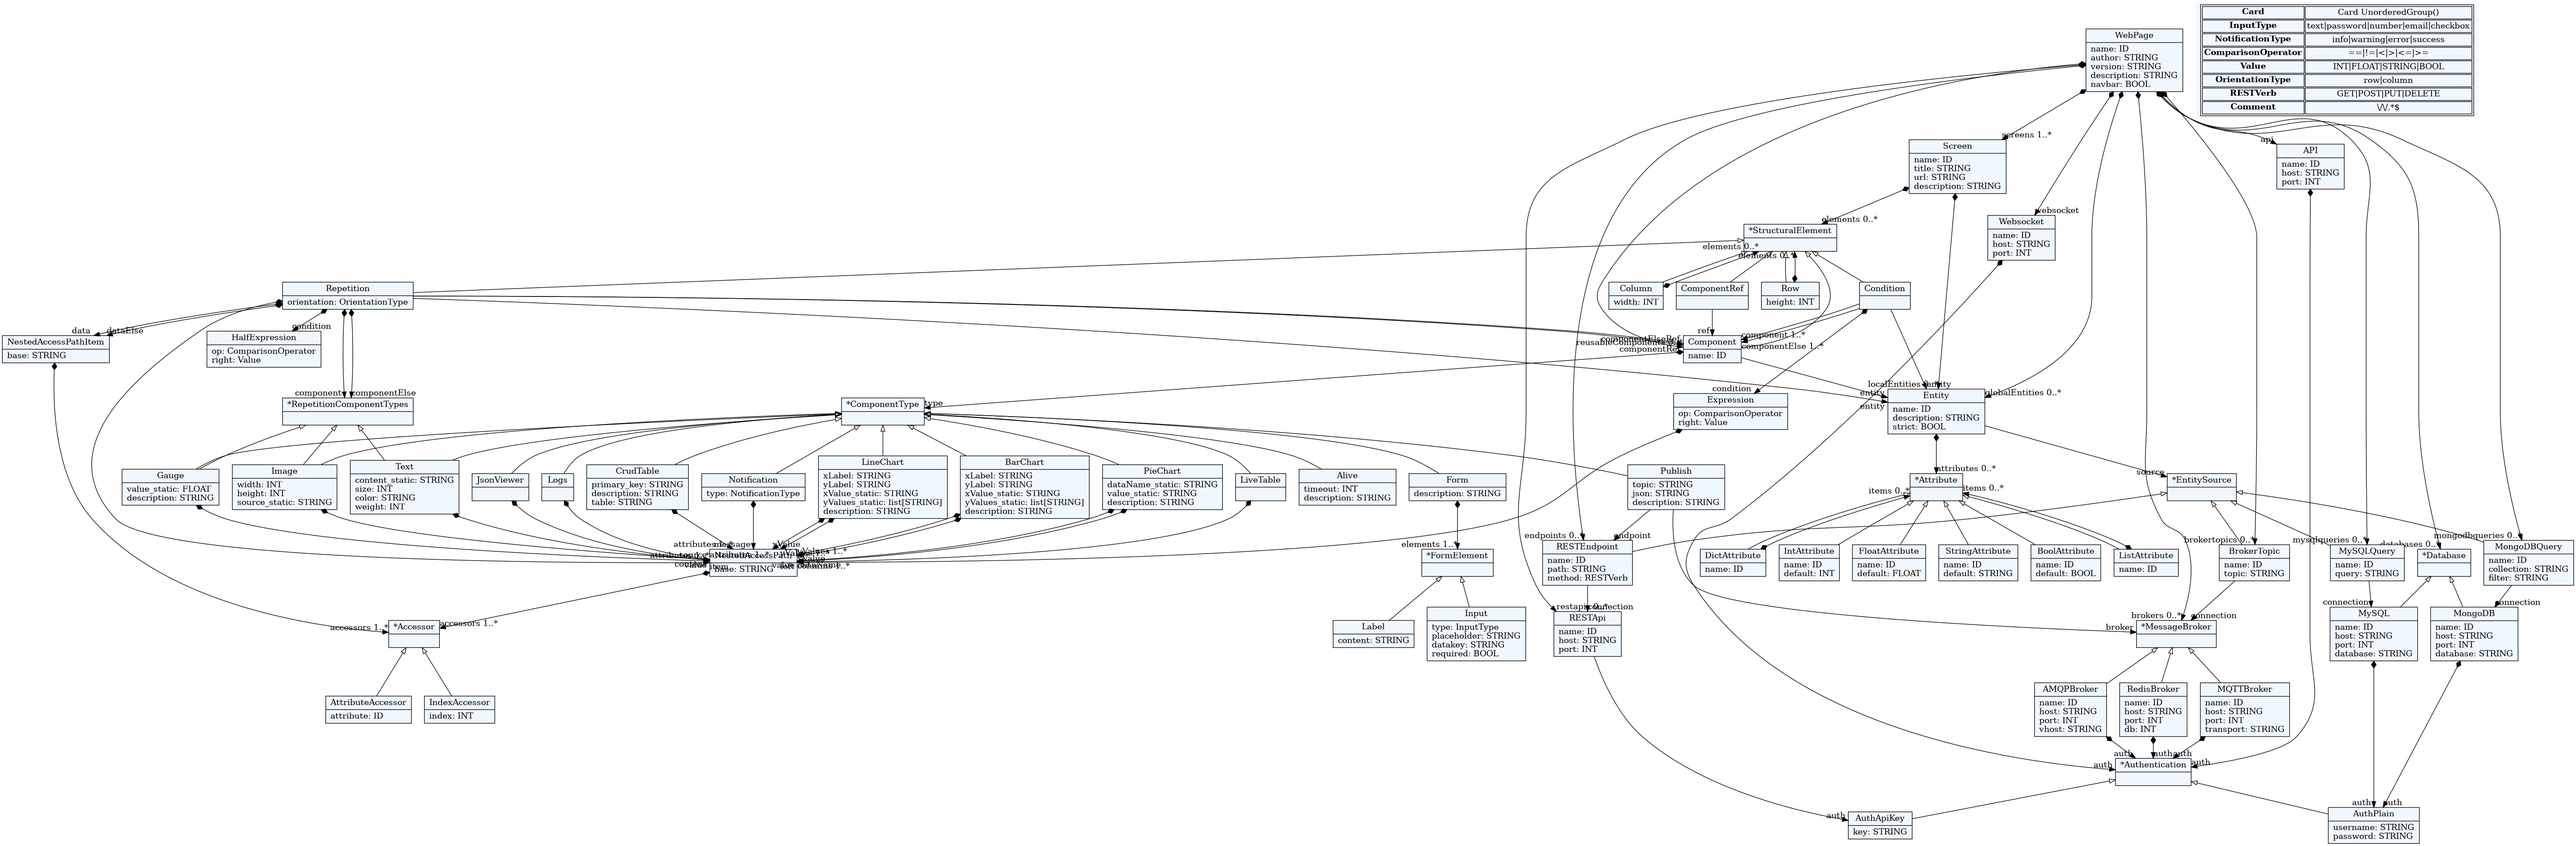
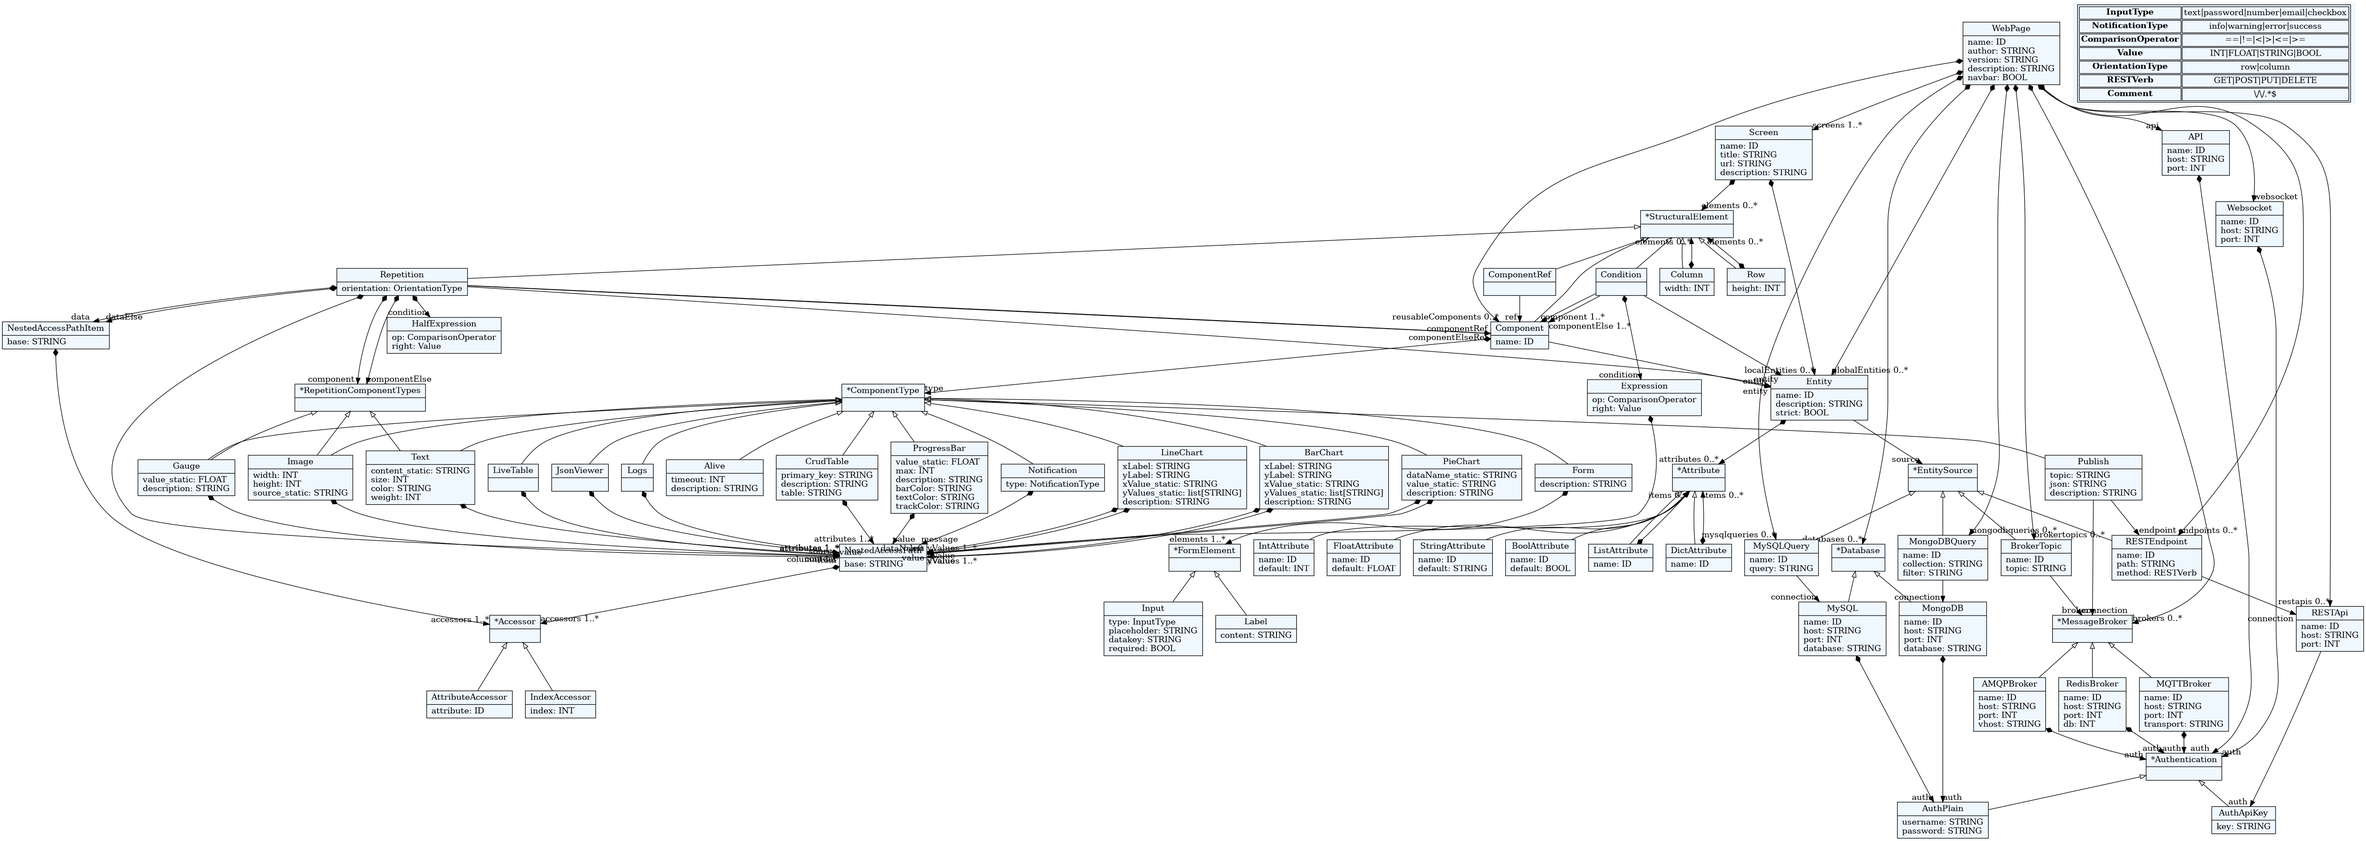
Added progreses bar component

diff --git a/web_dsl/base/frontend_base/src/components/ProgressBar.jsx b/web_dsl/base/frontend_base/src/components/ProgressBar.jsx
@@ -1,26 +1,28 @@
 import React, { useState, useContext } from "react";
 import { useWebsocket } from "../hooks/useWebsocket";
 import { WebsocketContext } from "../context/WebsocketContext";
-import { GaugeComponent } from "react-gauge-component";
 import { toast } from "react-toastify";
 import { useEffect } from "react";
 import { IoReload } from "react-icons/io5";
 import { fetchValueFromRest, fetchValueFromDB } from "../utils/fetchValues";
 import { getValueByPath } from "../utils/getValueByPath";
 
-const Gauge = ({
+const ProgressBar = ({
     topic,
     sourceOfContent,
     restData,
     staticValue,
     dbData,
     contentPath,
-    description = null,
-    repetitionItem = null
+    max = 100,
+    description,
+    barColor = "#80A499",
+    textColor = "#fff",
+    trackColor = "#3c544c"
 }) => {
     const ws = useContext(WebsocketContext);
-    const [currentValue, setCurrentValue] = useState(0);
-
+    const [currentValue, setCurrentValue] = useState(staticValue || 0);
+    const percentage = Math.min((currentValue / max) * 100, 100);
     useWebsocket(sourceOfContent === "broker" ? ws : null, topic, (msg) => {
         try {
             const data = getValueByPath(msg, contentPath);
@@ -47,29 +49,44 @@ const Gauge = ({
     useEffect(() => {
         reloadValue();
     }, []);
-
     return (
-        <div className="flex flex-col justify-center items-center relative">
+        <div className="w-full flex flex-col justify-center items-center relative">
             {(sourceOfContent === "rest" || sourceOfContent === "db") && (
                 <button
-                    className="absolute top-0 right-0 p-4 text-gray-100 hover:text-gray-500 hover:cursor-pointer"
+                    className="absolute top-0 right-[25] text-gray-100 hover:text-gray-500 hover:cursor-pointer"
                     onClick={reloadValue}
                     title="Refresh Value"
                 >
                     <IoReload size={24} />
                 </button>
             )}
-            {typeof repetitionItem === "string" ||
-            typeof repetitionItem === "number" ? (
-                <GaugeComponent value={repetitionItem} />
-            ) : sourceOfContent === "static" || sourceOfContent === "" ? (
-                <GaugeComponent value={staticValue} />
-            ) : (
-                <GaugeComponent value={currentValue} />
-            )}
-            {description && <h1 className="text-lg">{description}</h1>}
+            <div className="w-2/3">
+                {description && (
+                    <div className="mb-1 text-sm font-medium">
+                        {description}
+                    </div>
+                )}
+                <div
+                    className="w-full rounded-full h-4 overflow-hidden"
+                    style={{ backgroundColor: trackColor }}
+                >
+                    <div
+                        className="h-full transition-all duration-500"
+                        style={{
+                            width: `${percentage}%`,
+                            backgroundColor: barColor
+                        }}
+                    ></div>
+                </div>
+                <div
+                    className="mt-1 text-xs text-right"
+                    style={{ color: textColor }}
+                >
+                    {Math.round(percentage)}%
+                </div>
+            </div>
         </div>
     );
 };
 
-export default Gauge;
+export default ProgressBar;

diff --git a/web_dsl/base/frontend_base/src/components/Text.jsx b/web_dsl/base/frontend_base/src/components/Text.jsx
@@ -22,13 +22,13 @@ const Text = ({
 
     const ws = useContext(WebsocketContext);
 
-    const reloadContent = () => {
+    const reloadContent = async () => {
         if (sourceOfContent === "rest") {
-            const data = fetchValueFromRest(restData, contentPath);
+            const data = await fetchValueFromRest(restData, contentPath);
             setContent(data);
         }
         if (sourceOfContent === "db") {
-            const data = fetchValueFromDB(dbData, contentPath);
+            const data = await fetchValueFromDB(dbData, contentPath);
             setContent(data);
         }
     };

diff --git a/web_dsl/lib/component.py b/web_dsl/lib/component.py
@@ -327,3 +327,27 @@ class Form(ComponentType):
             formatted_elements = []
         self.elements = formatted_elements
         self.description = description
+
+
+class ProgressBar(ComponentType):
+    def __init__(
+        self,
+        parent=None,
+        name="ProgressBar",
+        value=None,
+        value_static=None,
+        max=None,
+        description=None,
+        barColor=None,
+        trackColor=None,
+        textColor=None,
+    ):
+        super().__init__(parent, name)
+        if value is not None:
+            self.value = self.format_attribute_path(value)
+        self.value_static = value_static
+        self.max = max
+        self.description = description
+        self.barColor = barColor
+        self.trackColor = trackColor
+        self.textColor = textColor

diff --git a/web_dsl/language.py b/web_dsl/language.py
@@ -25,6 +25,7 @@ from .lib.component import (
     Input,
     Label,
     Form,
+    ProgressBar,
 )
 
 from .lib.condition import Condition
@@ -53,6 +54,7 @@ custom_classes = [
     Label,
     Form,
     Repetition,
+    ProgressBar,
     # Add other classes here
 ]
 
